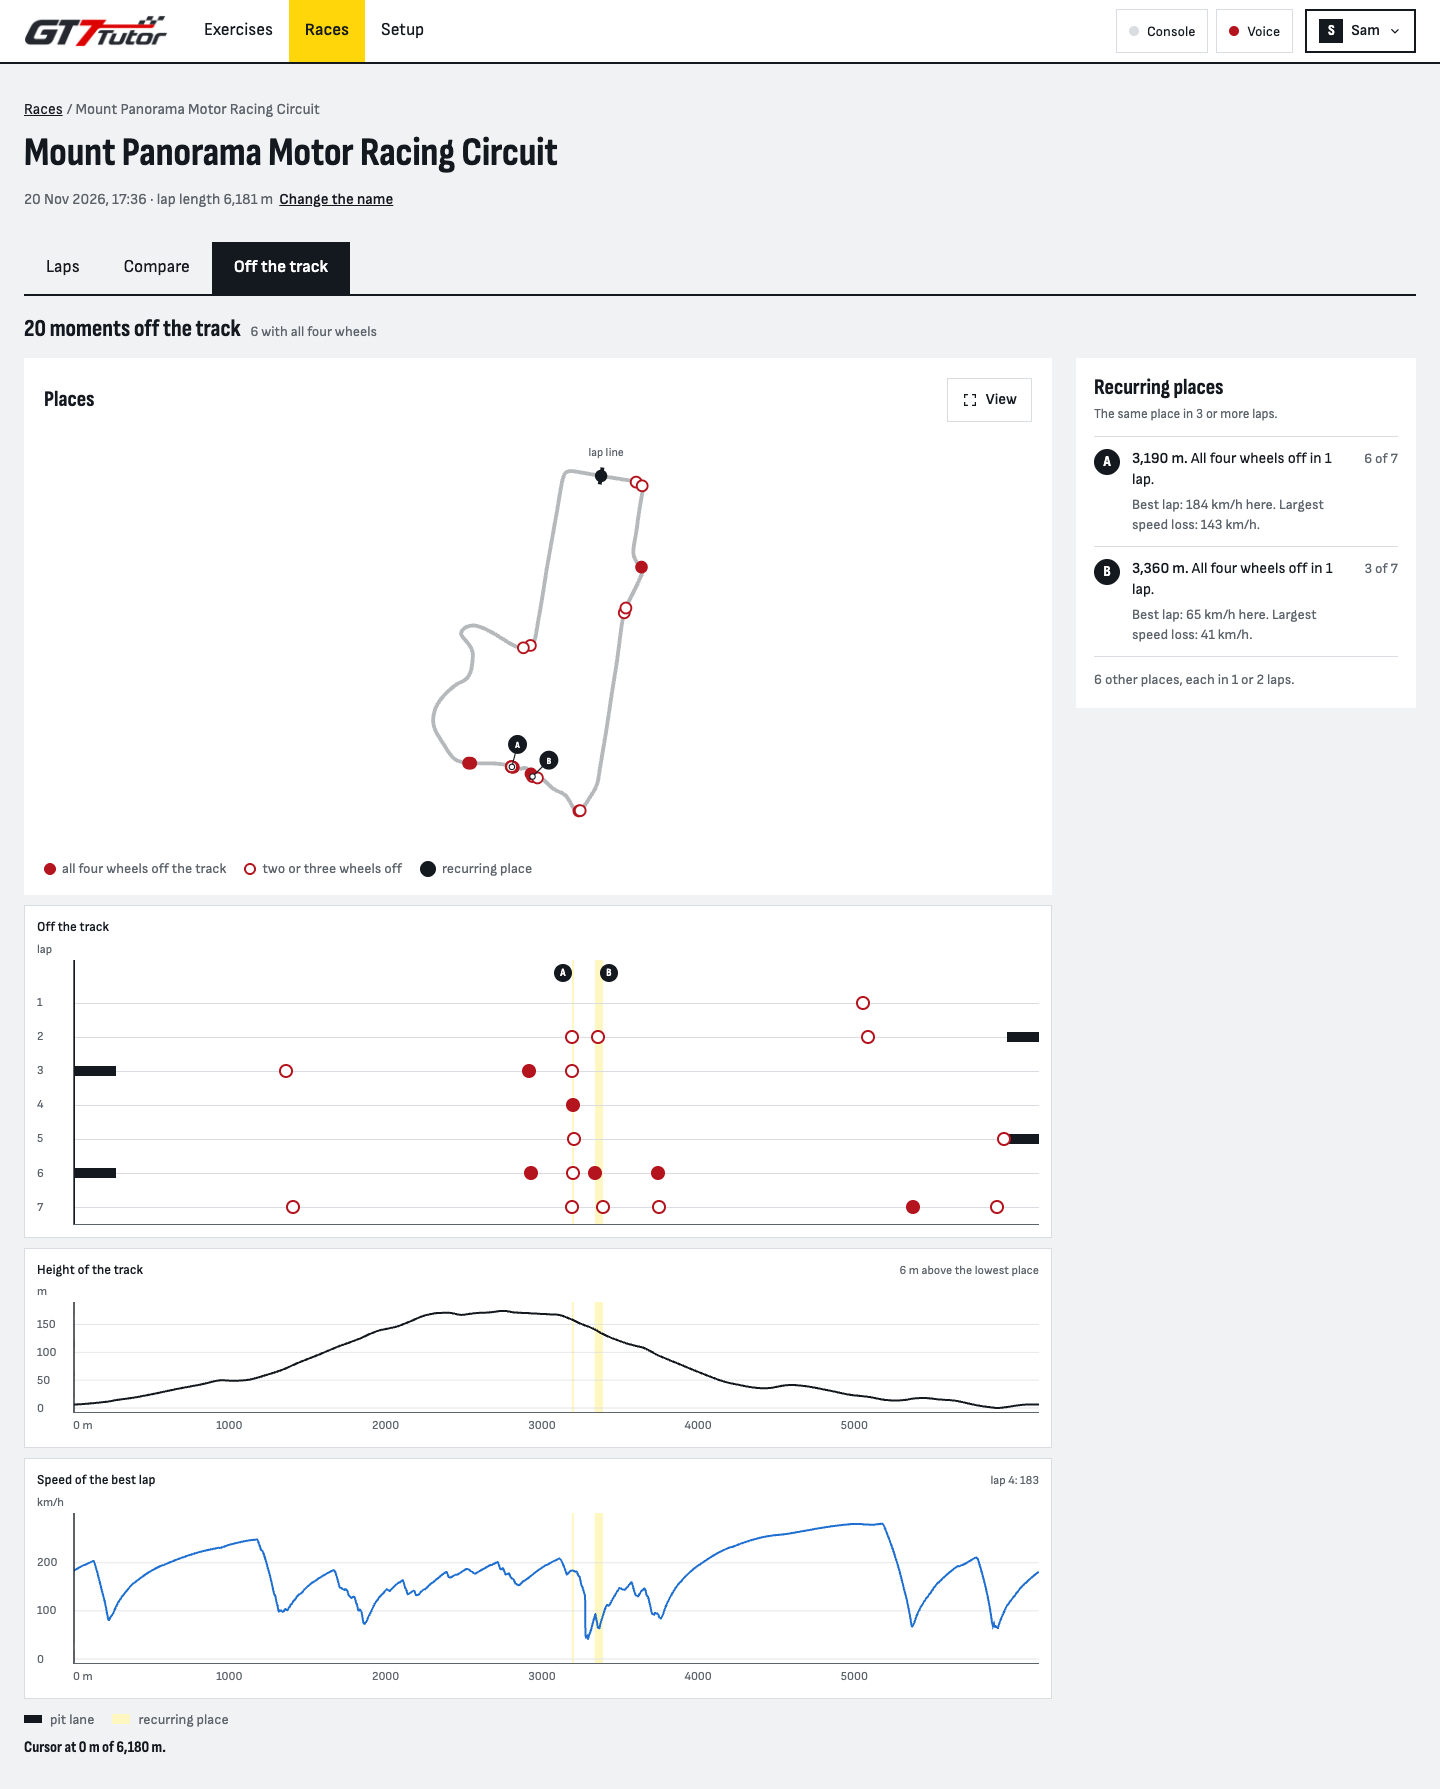
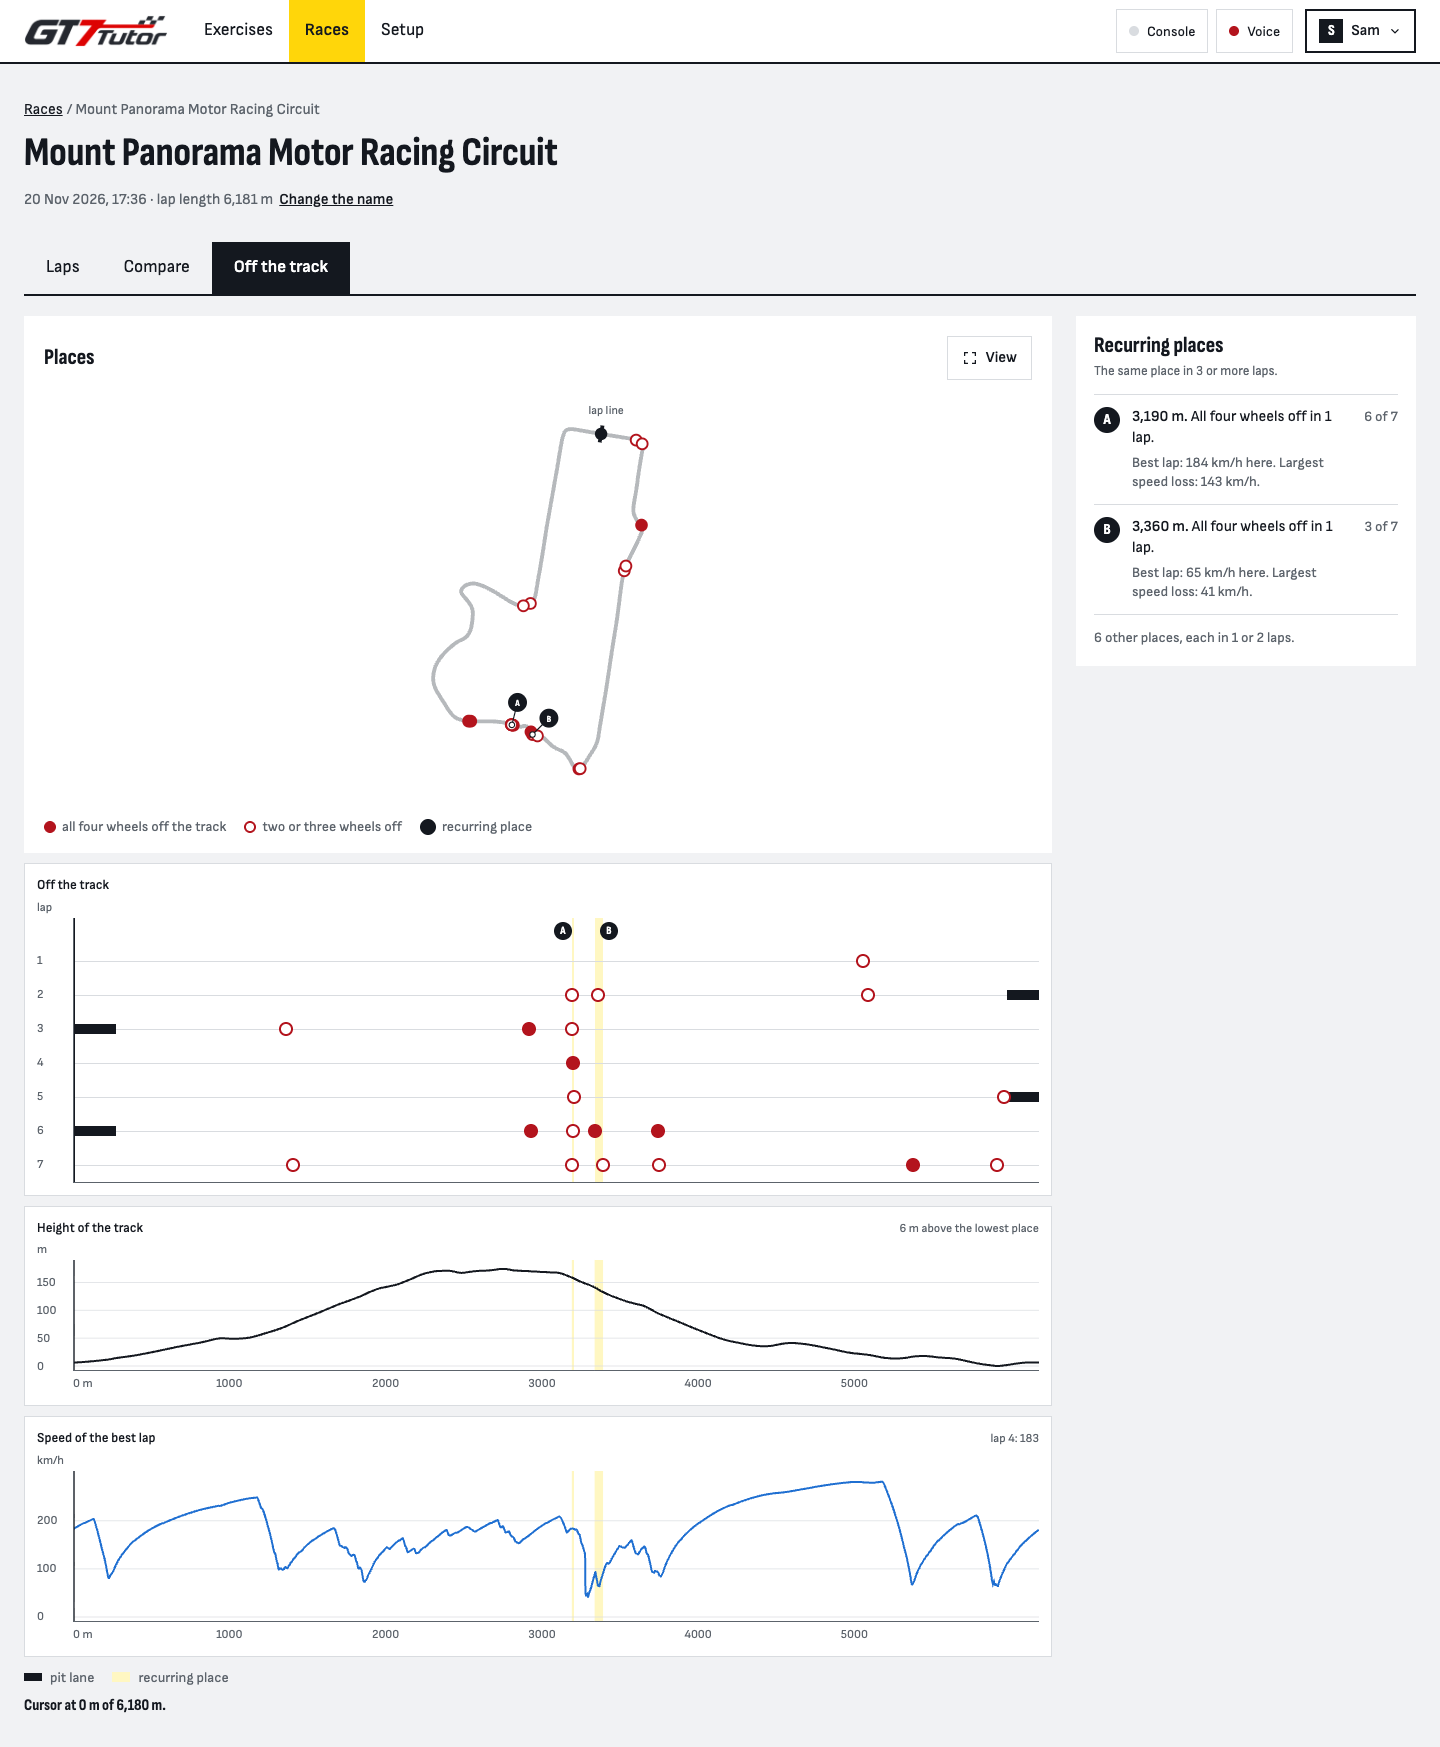
fix: drop the off-track count above the map

diff --git a/apps/web/src/features/races/OffTrackTab.tsx b/apps/web/src/features/races/OffTrackTab.tsx
@@ -14,7 +14,6 @@ import { errorText, useResource } from '../../app/resource.ts';
 import { raceName } from './RacesView.tsx';
 import { isRawMissing, rawMissingText } from './race-errors.ts';
 import { t } from '../../app/i18n.ts';
-import { Rich } from '../../app/rich-text.tsx';
 
 const HEIGHT_CHART = 110;
 const SPEED_CHART = 150;
@@ -332,15 +331,6 @@ function OffTrackBody({ race, view, moments }: { race: RaceDetail; view: RaceOff
   );
 }
 
-function OffTrackHeading({ moments }: { moments: RaceOffTrack[] }) {
-  const all = moments.filter(moment => moment.wheels === 4).length;
-  return (
-    <h2 className="race-off-title">
-      <Rich k="races.off.heading" params={{ count: moments.length }} parts={{ all: <span className="sub">{t('races.off.heading-all', { count: all })}</span> }} />
-    </h2>
-  );
-}
-
 export function OffTrackTab({ race }: { race: RaceDetail }) {
   const empty = race.offTrack === 0;
   const view = useResource(() => (empty ? Promise.resolve(null) : api.raceOffTrack(race.id)), [race.id, empty]);
@@ -356,7 +346,6 @@ export function OffTrackTab({ race }: { race: RaceDetail }) {
   const noLine = (view.error instanceof ApiError && view.error.code === 'no-match') || (view.data !== null && view.data.moments.every(moment => moment.sM === null));
   return (
     <section className="race-off-tab">
-      <OffTrackHeading moments={moments} />
       {missing || noLine ? (
         <>
           <p className="sub race-off-note">{missing ? rawMissingText() : t('races.off.no-line')}</p>

diff --git a/apps/web/test/race-off-track.spec.tsx b/apps/web/test/race-off-track.spec.tsx
@@ -14,7 +14,9 @@ function detailWith(overrides: Partial<RaceDetail> = {}): RaceDetail {
 async function openOffTrack(detail: RaceDetail = detailWith(), view: unknown = offTrackView()) {
   const api = signedIn(new ApiStub()).on(`GET /api/races/${RACE_ID}`, detail).on(`GET ${OFF_PATH}`, view).install();
   renderApp({ path: `/races/${RACE_ID}/off-track` });
-  await screen.findByRole('heading', { level: 2, name: /moments off the track|No moments/ });
+  await waitFor(() => {
+    if (!document.querySelector('.race-off-tab')) throw new Error('The tab is not drawn yet');
+  });
   return api;
 }
 
@@ -34,8 +36,14 @@ function cursorLine(): string {
 describe('race page, off the track tab', () => {
   it('counts_the_moments_and_the_four_wheel_moments', async () => {
     await openOffTrack();
-    expect(screen.getByRole('heading', { level: 2, name: '8 moments off the track 3 with all four wheels' })).toBeInTheDocument();
     expect(within(screen.getByRole('navigation', { name: 'Race' })).getByRole('link', { name: 'Off the track' })).toHaveAttribute('aria-current', 'page');
+  });
+
+  it('shows_no_count_of_the_moments_above_the_map', async () => {
+    await openOffTrack();
+    await screen.findByRole('region', { name: 'Places' });
+    expect(screen.queryByRole('heading', { name: /moments? off the track/ })).not.toBeInTheDocument();
+    expect(screen.queryByText(/with all four wheels/)).not.toBeInTheDocument();
   });
 
   it('lists_the_recurring_places_and_the_other_places', async () => {

diff --git a/apps/web/src/features/races/races.css b/apps/web/src/features/races/races.css
@@ -648,11 +648,6 @@ tr.race-pit td {
   font-size: 24px;
 }
 
-.race-off-title .sub {
-  margin-left: 6px;
-  font: 400 14px var(--font-body);
-}
-
 .race-mark.pit-lane {
   display: inline-block;
   width: 18px;

diff --git a/docs/user-guide/README.md b/docs/user-guide/README.md
@@ -615,9 +615,7 @@ With an in-lap or an out-lap:
 
 **Where:** the **Off the track** tab of the race.
 
-![The Off the track tab with 20 moments off the track. It shows the map Places and the panel Recurring places with A and B. Below are the off-track chart lap by lap, the height of the track and the speed of the best lap.](images/race-off-track.webp)
-
-The heading gives the number of moments off the track, and how many of them had all four wheels off.
+![The Off the track tab of a race with 20 moments off the track. It shows the map Places and the panel Recurring places with A and B. Below are the off-track chart lap by lap, the height of the track and the speed of the best lap.](images/race-off-track.webp)
 
 - **Places**: the map of the line of the reference lap. A red dot marks a moment with all four wheels off. A red ring marks a moment with two or three wheels off. A black circle with a letter marks a recurring place. Select a mark to put the cursor there. **View** opens the map in full screen with the list of the moments.
 - **Recurring places**: the places where you went off the track in 3 or more laps. An example row is `3,190 m. All four wheels off in 1 lap.` with the letter `A`. The row also gives the speed of the reference lap at that place and the largest speed loss. At the right, it gives the number of laps, for example `6 of 7`. Under the list: the number of other places, each in 1 or 2 laps.
